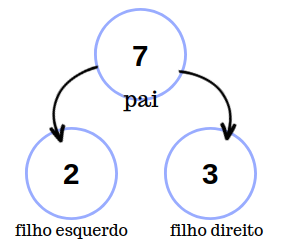
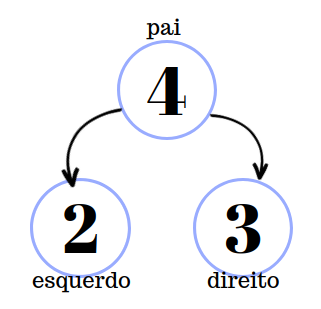
K2

Changed region(s): [[0.0563, 0.0279, 0.9296, 0.9482], [0.3662, 0.0558, 0.4225, 0.1116]]

diff --git a/README.md b/README.md
@@ -30,14 +30,14 @@ Esse algoritmo tem como objetivo percorrer vários arquivos .txt, ler cada linha
  <li>(4): Ao fim do algoritmo disponibilizar a heap com os K elementos que mais apareceram.</li>
 </ul>
 
-- TEM QUE DEFINIR OS VALORES K (quantos elementos para o rank) E ALL (quantos arquivos serão lidos) DENTRO DO functions.hpp
+- TEM QUE DEFINIR OS VALORES K (quantos elementos para o rank) E ALL (quantos arquivos serão lidos) DENTRO DO functions.cpp
 
 ## Arquivo de Entrada
 
 <p align="justify">
  <ul>
     <li>1 - Todos os arquivos devem ter o mesmo formato (.txt);</li>
-    <li>2 - Todos devem ser nomeados com o nome 'input0', em caso de mais de uma arquivo adicionar números em ordem crescente começando do 1 apos a palavra 'input', exempo : input1.txt ;</li>
+    <li>2 - O primeiro arquivo de entrada teve ser nomeado com o nome 'input0.txt', em caso de mais de uma arquivo adicionar números em ordem crescente começando do 1 apos a palavra 'input', exempo : input1.txt, input2.txt ;</li>
     <li>3 - O arquivo de stop word deve ser único, e nomeado como o exemplo: stopWord.txt;</li>
     <li>4 - o arquivo de stop word deve ter a seguinte formatação: uma palavra por linha e não pode conter expressões;</li>
  </ul>
@@ -54,7 +54,6 @@ Todos os arquivos de entrada devem ser colocados nesta pasta, de acordo com as e
 
 ### Pasta src
 
-* `input.data`: arquivo onde as matrizes que serão processadas estão salvas;
 * `main.cpp`: O arquivo é responsável por criar um mapa não ordenado (unordered_map) para receber todas as stop words que serão recebidas através de uma função, criar um map para receber todas as palavras diferentes de stop word através de uma função e chamar outra função que será responsável por retornar os K elementos mais comuns;
 * `functions.cpp`: arquivo que se encontram as todas as funções do algortimo;
 * `library.hpp`: arquivo que contém os cabeçalhos das bibliotecas que serão usadas em todo o algoritmo;
@@ -93,7 +92,12 @@ O algoritmo começa criando uma Hash do tipo [map](#map) que vai conter todas as
   <img height="100" width="400" src="img/map.png" >
 </p>
 
-Onde key é o tipo da chave, T o tipo do dado, o compare é uma função que compara as chaves em ordem crescente. Isso significa que a função de comparação `less<Key>` retorna true se a primeira chave for menor que a segunda chave, false se a primeira chave for maior ou igual à segunda chave, e throw se as chaves não forem comparáveis.
+Onde key é o tipo da chave, T o tipo do dado, o compare é uma função que compara as chaves em ordem crescente. Isso significa que a função de comparação `less<Key>` retorna true se a primeira chave for menor que a segunda chave, false se a primeira chave for maior ou igual à segunda chave, e throw se as chaves não forem comparáveis.Veja abaixo os custos computacionais de cada modalidade:
+
+- Inserção: O(log n)
+- Pesquisa: O(log n)
+- Remoção: O(log n)
+- Iteração: O(n)
 
 </div>
 
@@ -111,7 +115,12 @@ Onde key é o tipo da chave, T o tipo do dado, o compare é uma função que com
 
 Onde key é o tipo da chave, T o tipo do dado, hash é a função que é usada para calcular o hash das chaves. A função de hash é usada para converter uma chave em um valor inteiro, chamado código hash. O código hash é então usado para armazenar a chave em uma tabela hash. As tabelas hash são uma estrutura de dados que permitem o acesso rápido a elementos, pois os elementos são armazenados em buckets com base em seus códigos hash. KeyEqual é a função de igualdade de chaves que é usada para comparar as chaves e o Allocato para alocar memória pro mapa.
 
-Informação extra: você pode declarar sua própria função hash da seguinte maneira: `unordered_map<int, string, my_hash> my_map;` onde my_hash é a sua função.
+Informação extra: você pode declarar sua própria função hash da seguinte maneira: `unordered_map<int, string, my_hash> my_map;` onde my_hash é a sua função. Veja abaixo o custo computacional de algumas modolidades:
+
+- Inserção: O(1)
+- Pesquisa: O(1)
+- Remoção: O(1)
+- Iteração: O(n)
 
 </div>
 
@@ -169,7 +178,7 @@ Essa função faz parte da biblioteca algorithm, ela basicamente analisa de iní
 
 <div  align="justify">
 
-Ele é um algoritmo usado no heapsort, onde usa o conceito de pai e filho. Ele começa da metade do vetor e vai decrescendo conforme as interações. A posição i é chamada de pai, as posições (i\*2+1) de filho esquerdo e (i*2+2) de filho direito. Enquanto na interação o filho esquerdo for menor ou igual ao do tamanho final do vetor (K), ele vai analisar se o filho à esquerda é maior que o da direita. Caso sim, pega-se a posição do filho direito e compara com o pai. Caso o pai seja maior, troca-se os dois de posição, e agora passa analisar a partir da posição do filho atual até não ter mais filhos para comparar. Esse processo vai acontecer até o for chegar à posição zero do vetor. Ao final da execução, os valores não estarão ordenados, mas na primeira posição do vetor sempre vai estar o dado de menor valor (ocorrências).
+Ele é um algoritmo usado no heapsort, onde usa o conceito de pai e filho. Ele começa da metade do vetor e vai decrescendo conforme as interações. A posição i é chamada de pai, as posições (i\*2+1) de filho esquerdo e (i*2+2) de filho direito. Enquanto na interação o filho esquerdo for menor ou igual ao do tamanho final do vetor (K), ele vai analisar se o filho à esquerda é maior que o da direita. Caso sim, pega-se a posição do filho direito e compara com o pai. Caso o pai seja maior, troca-se os dois de posição, e agora passa analisar a partir da posição do filho atual até não ter mais filhos para comparar. Esse processo vai acontecer até o for chegar à posição zero do vetor. Ao final da execução, os valores não estarão ordenados, mas na primeira posição do vetor sempre vai estar o dado de menor valor (ocorrências). O custo do heapify é de log(n), mas no caso desse algoritmo seria log(K). 
 
 - Vetor de 6 posições, como é par não começa no meio certinho.
 
@@ -180,7 +189,7 @@ Ele é um algoritmo usado no heapsort, onde usa o conceito de pai e filho. Ele c
 - Pai e filhos.
 
 <p align="center">
-   <img height="200" width="250" src="img/2.png" >
+   <img height="250" width="250" src="img/2.png" >
 </p>
 
 - Exemplo de uma verificação completa:
